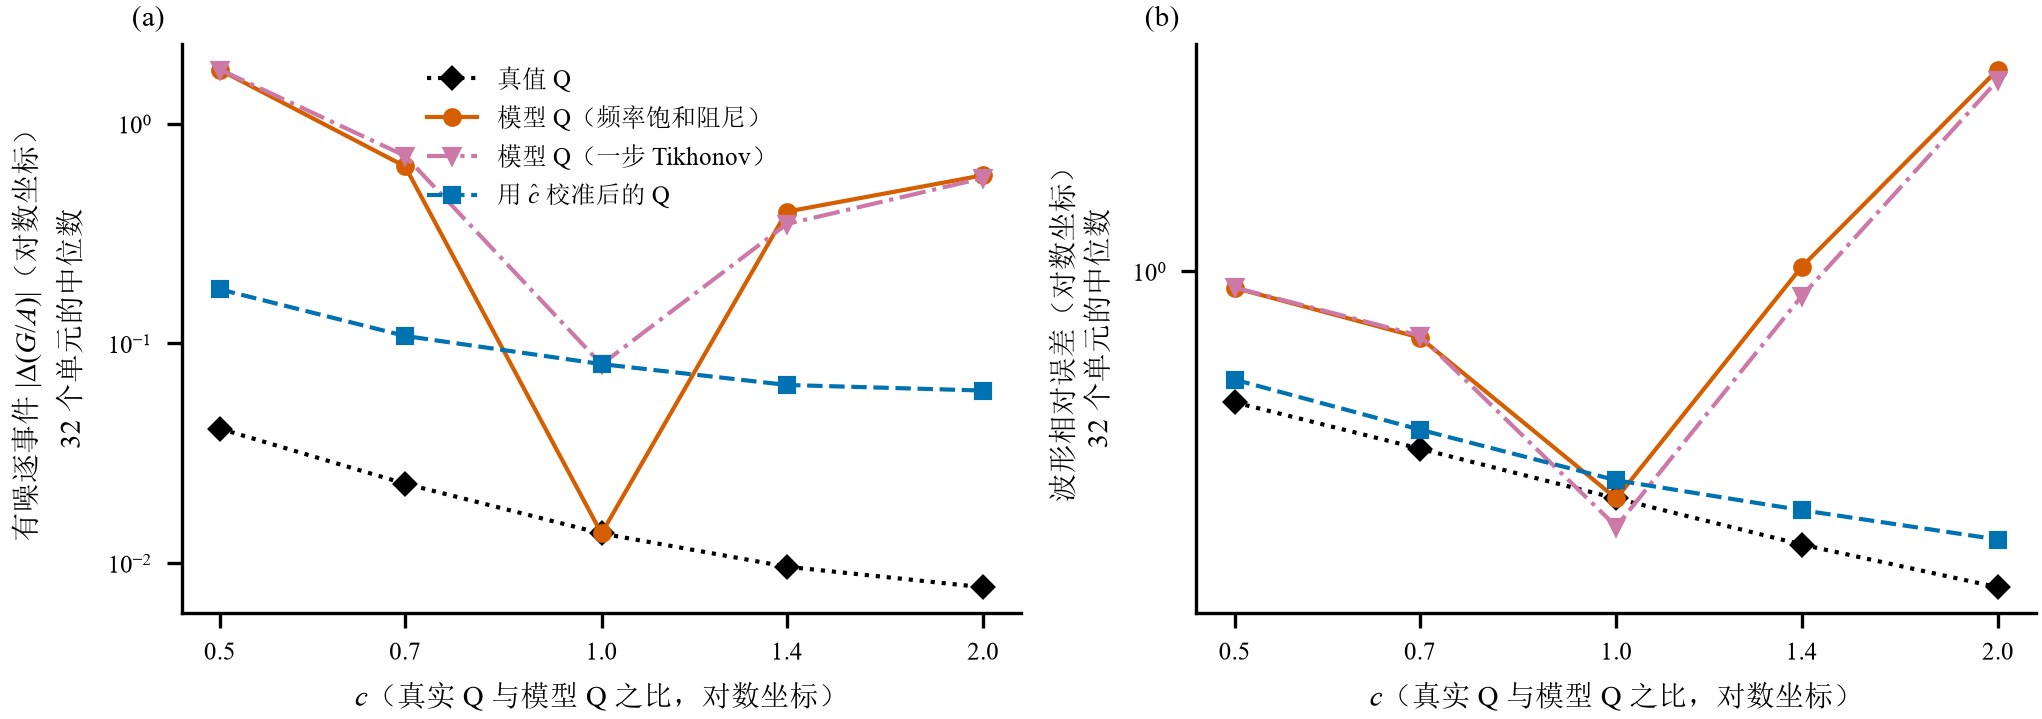
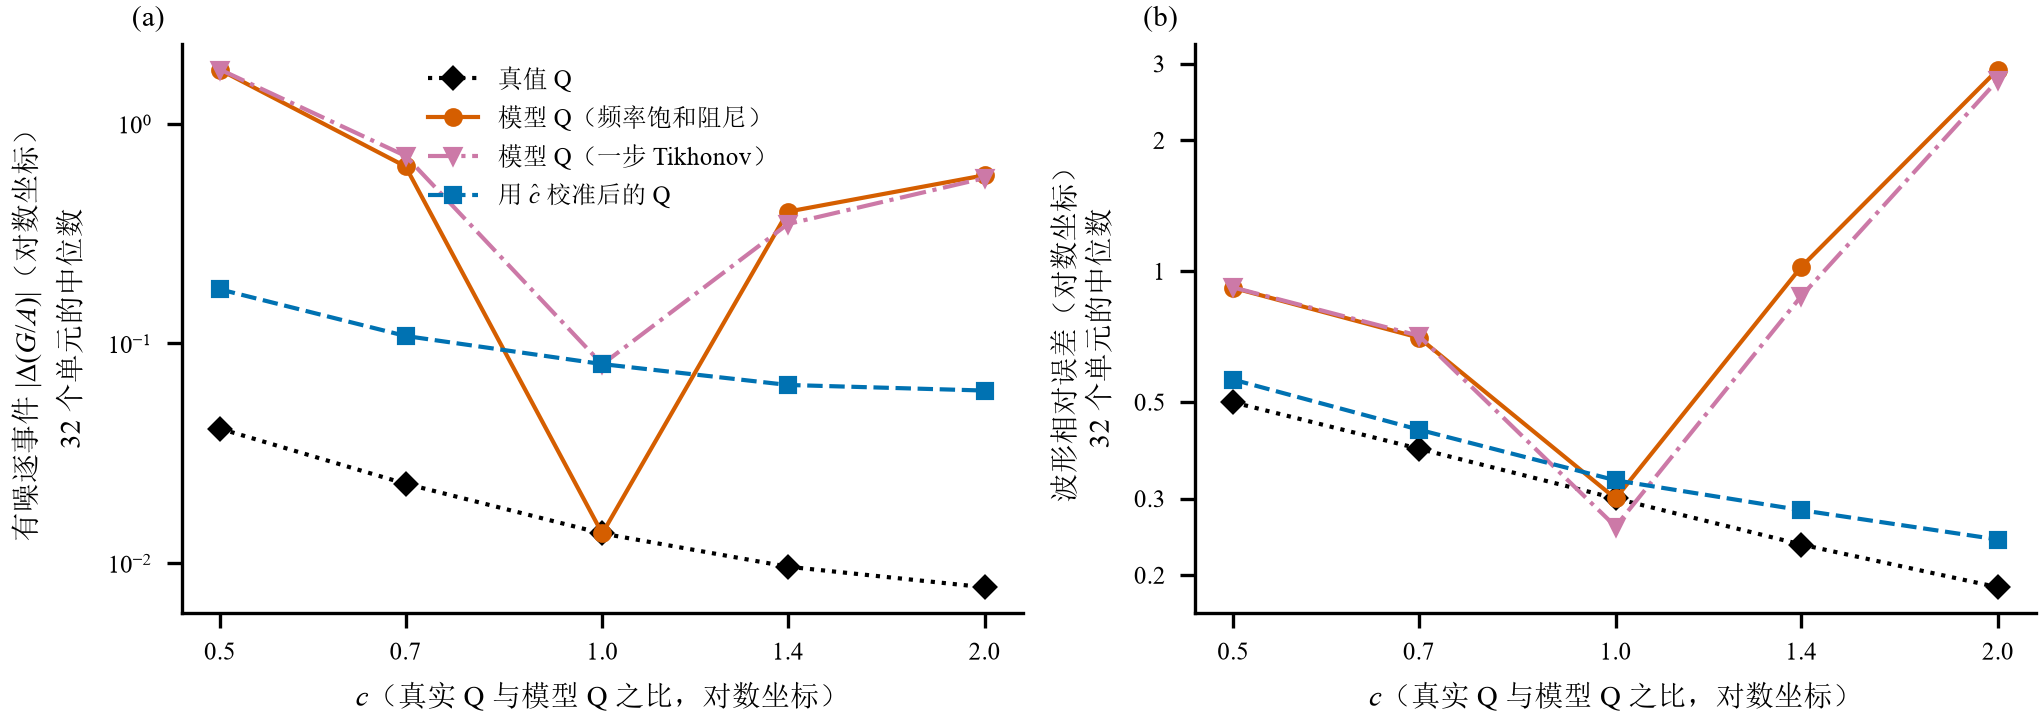
Offset-Q-AVO fig 7(b): label y ticks 0.2, 0.3, 0.5, 1, 2, 3 (data unchanged)
Panel (b) spans only ~1.2 decades, so with minor ticks off only 10^0 was labelled.
Other figures regenerate identically (PDFs differ only in run-dependent metadata; not committed).

diff --git a/地震衰减补偿研究/offset_q_avo_20261118/scripts/make_figs.py b/地震衰减补偿研究/offset_q_avo_20261118/scripts/make_figs.py
@@ -208,6 +208,8 @@ def fig7():
     axs[1].set(xscale="log", yscale="log", xlabel=T["f7_x"], ylabel=T["f7_y1"])
     for i, ax in enumerate(axs):
         ax.set_xticks(cs, [str(c) for c in cs]); ax.minorticks_off(); panel(ax, i)
+    yt = (0.2, 0.3, 0.5, 1, 2, 3)   # (b) spans only ~1.2 decades (0.19-2.9): label intermediate values, not just 10^0
+    axs[1].set_yticks(yt, [f"{v:g}" for v in yt])
     axs[0].legend(fontsize=6); save(fig, "fig7_end_to_end", [p], "gate A2, aligned events + thin beds, 24/30 dB, M24-M27, 10 seeds per cell")
 
 
